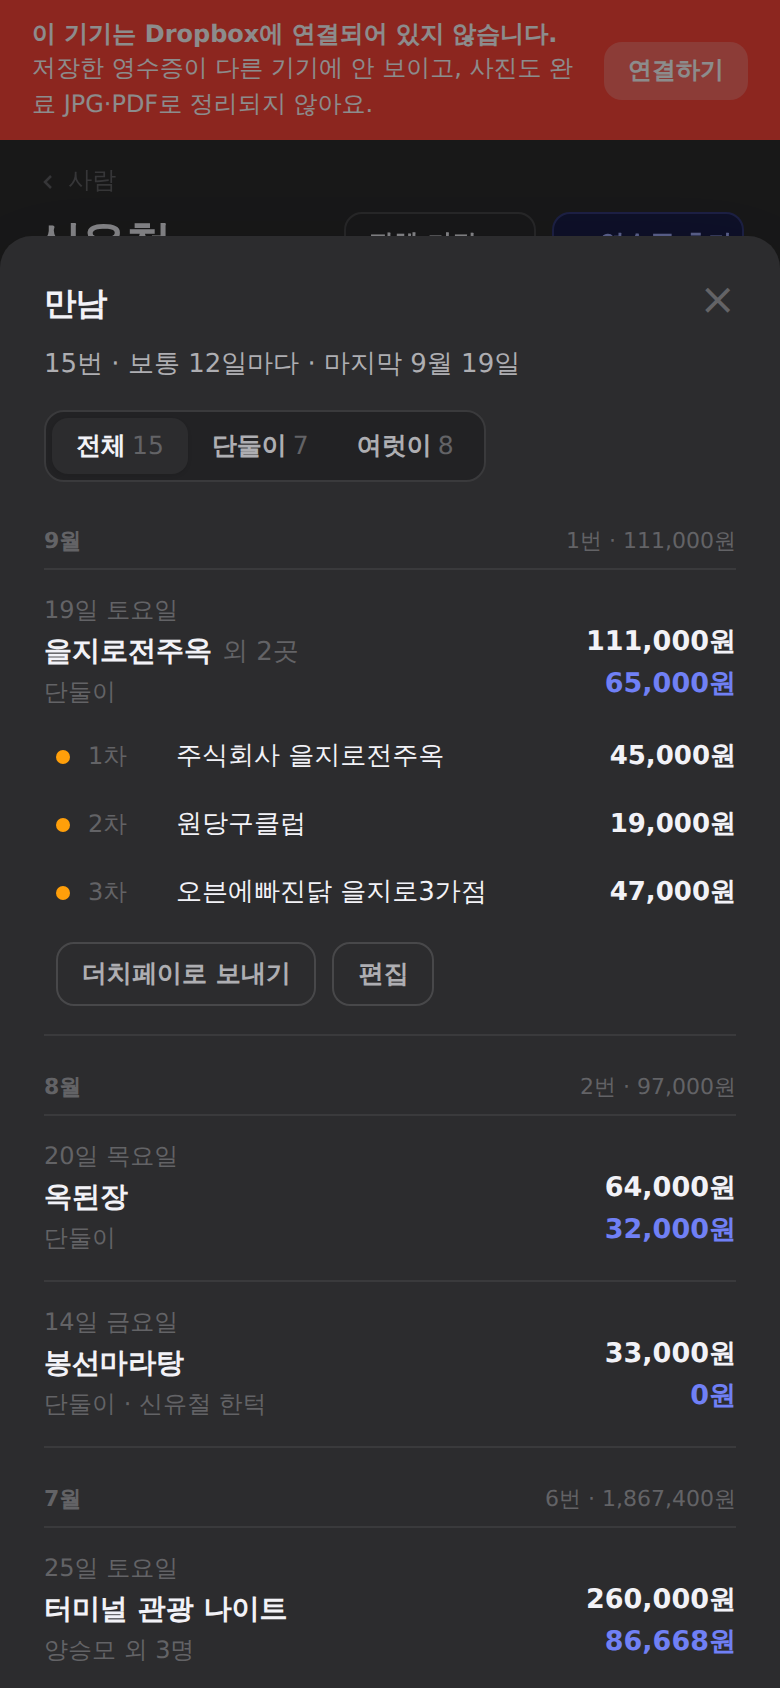
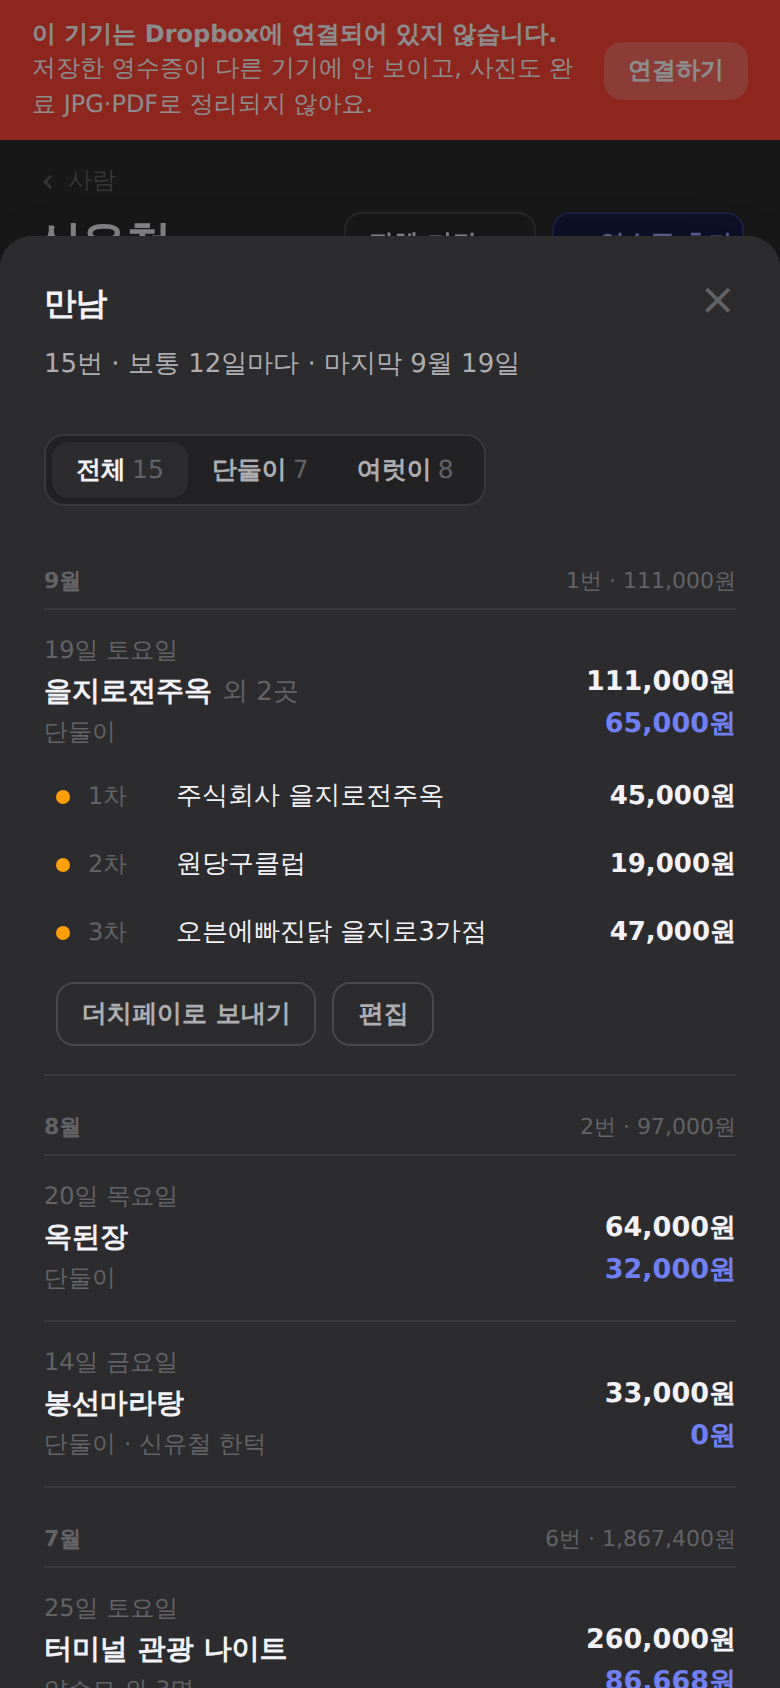
v4.21: 모든 목록 창 머리 고정 — 제목·필터 줄 고정, 만남 창 월 제목은 그 아래 (#90)
Claude-Session: https://claude.ai/code/session_015GHkiAamnHffQEY4rmfzaq

diff --git a/index.html b/index.html
@@ -860,6 +860,16 @@ th.mtg-chk{background:var(--fill2);}
 .mtg-sheet-cancel{padding:9px 15px;border:1px solid var(--border);border-radius:8px;background:var(--surface);color:var(--text-secondary);font-size:var(--fs-secondary);cursor:pointer;font-family:inherit;}
 .mtg-sheet-ok{padding:9px 16px;border:none;border-radius:8px;background:var(--color-primary);color:#fff;font-size:var(--fs-secondary);font-weight:600;cursor:pointer;font-family:inherit;}
 .mtg-sheet-ok:disabled{background:var(--border);color:var(--text-tertiary);cursor:not-allowed;}
+/* v4.21 — 목록 창 머리 고정(모든 .mtg-sheet). 제목 줄·필터 줄을 창 끝까지 넓혀(--shp = 창 안쪽 여백만큼) 배경으로 뒤 내용을 가린다.
+   스크롤이 시작되면 마지막 고정 줄 아래에만 구분선. 부제(메타)는 위로 사라진다. */
+.mtg-sheet{--shp:22px;}
+.mtg-sheet>.mtg-sheet-hd{position:sticky;top:calc(-1 * var(--shp));z-index:4;background:var(--card);margin:calc(-1 * var(--shp)) calc(-1 * var(--shp)) 0;padding:var(--shp) var(--shp) 9px;}
+.mtg-sheet>.pd-filter,.mtg-sheet>.mtl-bar{position:sticky;top:calc(var(--sh-hd,56px) - var(--shp));z-index:4;background:var(--card);margin-left:calc(-1 * var(--shp));margin-right:calc(-1 * var(--shp));padding-left:var(--shp);padding-right:var(--shp);}
+.mtg-sheet>.pd-filter{margin-top:0;margin-bottom:0;padding-top:2px;padding-bottom:10px;}
+.mtg-sheet>.mtl-bar{margin-top:0;margin-bottom:0;padding-top:12px;padding-bottom:8px;}
+.mtg-sheet [data-shlast]{transition:box-shadow .15s;}
+.mtg-sheet.is-scrolled [data-shlast]{box-shadow:0 1px 0 var(--divider);}
+.mtg-sheet .mtl-mh{position:sticky;top:calc(var(--sh-top,100px) - var(--shp));z-index:3;background:var(--card);}
 @media(max-width:780px){
   .mtg-sheet-backdrop{align-items:flex-end;padding:0;}
   .mtg-sheet{max-width:none;border-radius:var(--r) var(--r) 0 0;max-height:86vh;padding-bottom:calc(16px + env(safe-area-inset-bottom,0px));}
@@ -3860,6 +3870,7 @@ html[data-theme="light"]{ --toast-bg:#FFFFFF; --toast-fg:#111111; --toast-bd:#D4
 //   receiptPeople/_receiptShare/_participantSplit/_personRelation/단둘이 실결제/여럿이/한턱/참석부담/meetingId/만남통계/
 //   Dutch Pay·기간필터·v3.54~55 drill-down/미상 전부 불변. 검증(실데이터): 신유철·김영석·김승환·1건/참석만/결제만/결제+참석
 //   사용자 모두 renderPersonDashboardHtml 단일 사용, 헤더 구조 동일, Desktop/Mobile·콘솔에러 0. 변경 파일 index.html만.
+// v4.21 — 모든 목록 창(.mtg-sheet: 만남·결제 밸런스·한턱·자주 간 곳·더치페이 보내기 등) 머리 고정: 제목 줄과 필터 줄은 스크롤해도 위에 남고, 만남 창의 월 제목은 그 아래에 붙었다가 다음 달로 바뀐다. 스크롤을 시작하면 고정 줄 아래에 구분선.
 // v4.20 — 만남 창 다듬기: PC에서 글자를 구분선 끝에서 12px 안쪽으로(구분선은 끝까지) · 화살표 없이 줄을 누르면 펼침(PC도 폰처럼) · [더치페이로 보내기][편집] 왼쪽 끝을 결제자 점에 맞춤.
 // v4.19 — 만남 창 새 디자인(시안 ②): 만남 관리 버튼과 만남 전체·단둘이·여럿이 타일이 같은 창. 한 줄 = 만남 1회(날짜 줄 '19일 토요일' · 첫 가게 외 N곳 · 단둘이/○○ 외 N명·한턱 · 총액 / 내 부담), 누르면 그 자리에서 차수(시간)·결제자 점·[더치페이로 보내기][편집]. 만남 횟수 = meetingId 만남 + 묶이지 않은 영수증은 같은 날끼리 1회(새벽 6시 전 영수증은 전날).
 // v4.18 — 사람 화면 다듬기: 헤더 [전체 기간][+ 영수증 추가] 높이 32px로 같게 · 기간 버튼 꺾쇠를 선으로 크게 · 결제 밸런스 부제(정산 후 실제로 낸 돈…) 제거하고 [전체·단둘이·여럿이]를 제목 줄 오른쪽에(폰도 한 줄) · '조상현이 ○원 더 냈어요'·'더 한턱냈어요' 문장 17→15px, 굵기 500→400(숫자 700→600).
@@ -4270,7 +4281,7 @@ html[data-theme="light"]{ --toast-bg:#FFFFFF; --toast-fg:#111111; --toast-bd:#D4
 //   ⑧ 분담 칩 여백. ⑨ 참석 내역 인원/분담금 우측정렬. ⑩ 전역 tabular-nums(더치페이식 숫자·콤마 정렬).
 // v3.35 — 사람별 분담 정확도: 한턱(treat)·깍두기(splitExclude/제외) + '참석자별 분담'→'사람별 분담'(적응형
 //   부제) + 이름 클릭→인물 검색. 계산은 _receiptShare/_participantSplit 단일 진실원으로 통일.
-const APP_VERSION='v4.20';
+const APP_VERSION='v4.21';
 
 // 모든 날짜 입력은 필드나 해당 라벨의 어느 곳을 눌러도 같은 방식으로 달력을 연다.
 document.addEventListener('click',e=>{
@@ -9039,6 +9050,17 @@ function _mtgSheetOpen(){
   const close=(after)=>{const cb=(typeof after==='function')?after:null;if(_torn){if(cb)cb();return;} _ovDismissById(ovid,cb,teardown);};
   document.addEventListener('keydown',onKey);
   bd.addEventListener('click',e=>{if(e.target===bd)close();});
+  // v4.21 — 모든 목록 창 머리 고정: 제목 줄(+ 필터 줄)은 스크롤해도 위에 남고, 월 제목은 그 아래에 붙는다. 창 내용이 바뀔 때마다 높이를 다시 잰다.
+  const syncStick=()=>{
+    const hd=card.querySelector(':scope>.mtg-sheet-hd'), fl=card.querySelector(':scope>.pd-filter, :scope>.mtl-bar');
+    const hh=hd?hd.offsetHeight:0;
+    card.style.setProperty('--sh-hd',hh+'px');
+    card.style.setProperty('--sh-top',(hh+(fl?fl.offsetHeight:0))+'px');
+    card.querySelectorAll('[data-shlast]').forEach(n=>n.removeAttribute('data-shlast'));
+    const last=fl||hd; if(last)last.setAttribute('data-shlast','');
+  };
+  new MutationObserver(syncStick).observe(card,{childList:true});
+  card.addEventListener('scroll',()=>card.classList.toggle('is-scrolled',card.scrollTop>2),{passive:true});
   return {bd,card,close};
 }
 // 특정 오버레이 id를 UI로 닫기: 스택 top이면 history.back으로 소비, 아니면 직접 teardown(중첩/데스크탑 안전).

diff --git a/sw.js b/sw.js
@@ -1,6 +1,6 @@
 const CACHE_PREFIX='receipt-db-shell-';
 // ⚠ APP_VERSION과 같이 올릴 것(scripts/check_app.py가 확인). 이 파일 내용이 바뀌어야 폰이 새 서비스 워커를 설치한다.
-const CACHE_NAME=CACHE_PREFIX+'v4.20';
+const CACHE_NAME=CACHE_PREFIX+'v4.21';
 const SHELL=[
   './prepaid.js',
   './prepaid.css',

diff --git a/CHANGELOG.md b/CHANGELOG.md
@@ -3,6 +3,7 @@
 최신 버전이 위. 새 버전마다 맨 위에 한 항목씩 추가한다(형식은 아래 항목들과 같게 — 무엇이·왜·어떻게 고쳤고 무엇으로 검증했는지).
 규칙·함정의 요약은 `CLAUDE.md`에 있다.
 
+- `v4.21` — **모든 목록 창 머리 고정(사용자 요청 — 만남이 많아질 때 대비, 모든 창에 같게).** 목록 창은 모두 `_mtgSheetOpen` 한 틀이라 여기서 한 번에: 제목 줄(`.mtg-sheet-hd`, 닫기 포함)과 필터 줄(`.pd-filter`·`.mtl-bar`)을 `position:sticky`로 고정하고, 창 안쪽 여백(`--shp` 22px)만큼 양옆으로 넓혀 배경이 뒤 내용을 가린다. 부제(메타)는 위로 사라진다. 만남 창의 월 제목(`.mtl-mh`)은 필터 아래에 붙었다가 다음 달이 오면 바뀐다. 고정 높이는 창 내용이 바뀔 때마다 다시 재서(`MutationObserver` → `--sh-hd`·`--sh-top`) 필터 줄·월 제목 위치를 맞추고, 스크롤을 시작하면(`is-scrolled`) 마지막 고정 줄 아래에만 구분선. 만남 편집·정리 화면(`.org-panel`)은 원래 머리 고정이라 그대로. 검증(1280·390·다크): 만남·결제 밸런스 창을 끝까지 내렸을 때 제목 줄 top = 창 top, 필터 top = 제목 줄 bottom, 월 제목 top = 필터 bottom(±1px), 구분선 표시, 고정 줄 배경 폭 = 창 폭, 짧은 창(자주 간 곳)은 변화 없음, 스크롤 전 제목 위치 그대로, 만남 창·사람 요약 회귀 PASS, 에러 0. 변경 파일 `index.html`·`sw.js`·`README.md`·`CLAUDE.md`·`CHANGELOG.md`.
 - `v4.20` — **만남 창 다듬기(사용자 요청).** ① PC에서 월 제목·만남 줄·펼친 차수의 글자를 구분선 끝에서 12px 안쪽으로(구분선은 그대로 끝까지, 폰은 그대로). ② 오른쪽 화살표(›) 제거 — PC도 폰처럼 줄을 누르면 펼쳐진다. ③ [더치페이로 보내기][편집]을 왼쪽 정렬, 왼쪽 끝을 결제자 점과 같은 선에. 검증: 1280 글자 여백 12px(날짜 줄 왼쪽·금액 오른쪽)·버튼 왼쪽 = 점 왼쪽(400 = 400), 390 버튼 = 점(28 = 28)·글자 위치 그대로, 화살표 0, 에러 0. 변경 파일 `index.html`·`sw.js`·`README.md`·`CLAUDE.md`·`CHANGELOG.md`.
 - `v4.19` — **만남 창 새 디자인 + 같은 날 영수증은 만남 1회.** 사용자와 시안 C·D → 외부 시안 평가 → E → 일자 3안 중 ②로 확정, 만남 관리 안의 전체·단둘이·여럿이 창도 같은 창으로. ① **만남 단위**(`_mtgUnits`): meetingId로 묶은 만남은 그대로 1회, 묶이지 않은 영수증은 **같은 날끼리 1회**(영수증 시간이 새벽 6시 전이면 전날 만남 — 자정 넘긴 2·3차). 저장하지 않는 표시·집계 규칙이라 데이터는 그대로. 시간이 없는 다음 날 영수증은 자동으로 합치지 않는다(단둘이는 참석자가 늘 같아 이틀 연속 만남이 잘못 합쳐짐) → 창 아래 '영수증을 직접 묶어 주세요'(기존 정리 화면). 사람 목록·헤더 '만남 N회'·만남 타일·보통 N일마다가 모두 이 기준(9/24 백업 신유철 41 → 15회, 7/25 새벽 시간을 넣으면 14회). ② **만남 창**(`_openMeetingsSheet`): [만남 관리] 버튼과 만남 전체·단둘이·여럿이 타일이 같은 창(타일은 그 필터로 열림). 제목 '만남' · '15번 · 보통 12일마다 · 마지막 9월 19일' · [전체·단둘이·여럿이] + 범례(PC) · 월 제목(다른 해는 '2025년 12월')과 그달 합계 · 한 줄 = 날짜 줄 '19일 토요일'(이틀이면 '24일 금 – 25일 토') · **첫 가게(짧은 이름) 외 N곳** · 단둘이/'양승모 외 3명' · 한턱이면 '신유철 한턱'/'서로 한턱' · `총액 / 내 부담`(내 부담 파랑, 폰은 두 줄). 누르면 그 자리에서 펼쳐져 차수(모두 시간이 있으면 시간)·원래 가게 이름·한턱·금액·왼쪽 결제자 점(v4.17 규칙), 차수를 누르면 영수증(뒤로 = 같은 필터의 만남 창), [더치페이로 보내기](그 만남 영수증 전부) · [편집](묶인 만남은 바로 편집 화면, 자동으로 모인 같은 날 영수증은 '만남으로 묶기' 확인 후 편집 화면). 빼기로 한 것: 검색·정렬·'묶이지 않음' 표시·이름 칩·카드 테두리. 검증(9/24 백업): 1280·390·다크, 타일 15/7/8, 창 15줄·단둘이 7, 9/19 펼침 3차(점=신유철 결제), 가로 넘침 0, 차수→영수증, 여럿이 타일 → 여럿이 필터, 새벽 1:30 영수증 → '24일 금 – 25일 토' 한 만남(14/7/7), 편집 → meetingId 저장 → 만남 편집 화면(3건)·횟수 불변, 사람 요약 회귀·헤더 위치·375 저장 버튼 PASS, 에러 0. 변경 파일 `index.html`·`sw.js`·`README.md`·`CLAUDE.md`·`CHANGELOG.md`.
 - `v4.18` — **사람 화면 헤더·결제 밸런스 카드 다듬기(사용자 요청).** ① 헤더 [전체 기간](31px)과 [+ 영수증 추가](30px) 높이가 달랐다 → 둘 다 32px. ② 기간 버튼 오른쪽 `▾`(10px 글자)가 너무 작다 → 선으로 그린 꺾쇠(6px, 펼치면 위로). ③ 결제 밸런스 부제 '정산 후 실제로 낸 돈 · 1/N, 한턱은 낸 사람' 제거, [전체·단둘이·여럿이]를 제목 줄 오른쪽 끝에(폰에서도 줄바꿈 없이 — 예전엔 부제 밑 별도 줄). ④ '조상현이 97,709원 더 냈어요' 문장 17→15px·굵기 500→400, 숫자 700→600(같은 모양인 한턱 문장도 함께). 기준 설명은 결제 밸런스 목록 창 부제에 그대로 있다. 검증: 1280·390 두 버튼 높이 32 = 32·너비 같음, 제목과 [전체·단둘이·여럿이]가 한 줄(헤더 36px), 문장 15px/400·600, 에러 0. 변경 파일 `index.html`·`sw.js`·`README.md`·`CLAUDE.md`·`CHANGELOG.md`.

diff --git a/README.md b/README.md
@@ -1,4 +1,4 @@
-# 영수증 보관함 (Receipt DB) · v4.20
+# 영수증 보관함 (Receipt DB) · v4.21
 
 GPT로 정리한 영수증 텍스트를 영구 보관하고, 가계부처럼 들여다볼 수 있는
 **단일 HTML 앱**. 외부 CDN이나 빌드 의존성 없이 GitHub Pages에서 실행됩니다.
